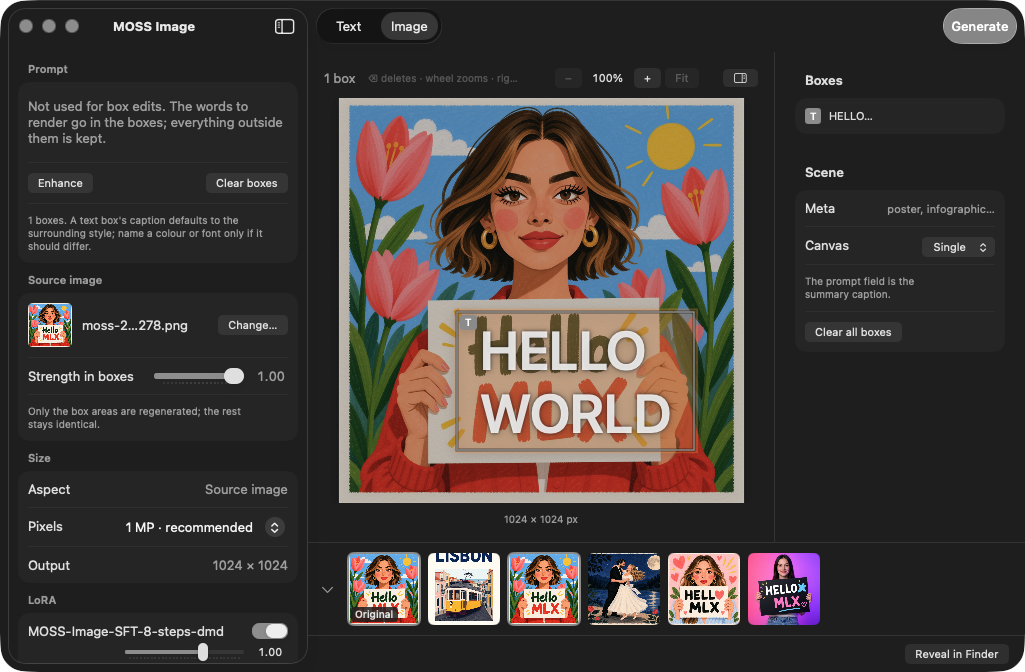
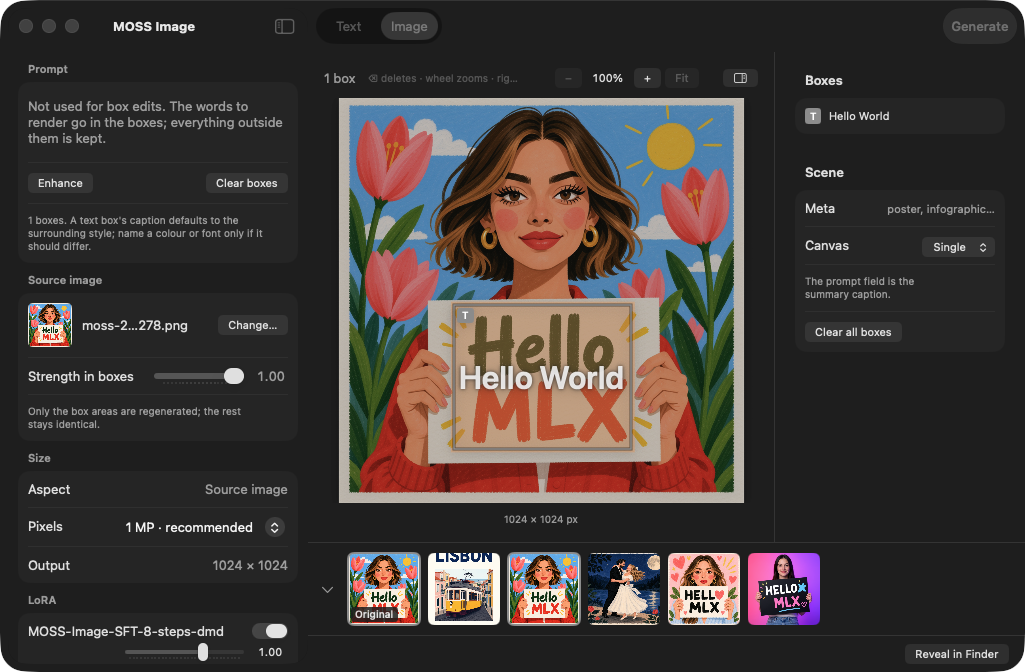
README: image-to-image screenshots from a real session
Editing view with a 'Hello World' text box over the sign, and the finished
result with overlays hidden; both captured from the app during use.

diff --git a/README.md b/README.md
@@ -36,8 +36,8 @@ holds the original and every render; click one to work on it.
 
 ![Image to image](docs/image-to-image.png)
 
-Before and after. The box covers the whole of the old lettering, and its caption names the style
-("hand-painted brush lettering, top word dark green, bottom word red"). Seed 5 of three tried:
+The result, boxes hidden with the eye button. Only the sign changed; the rest of the picture is the
+original pixel for pixel:
 
 ![Image to image result](docs/image-to-image-result.png)
 
